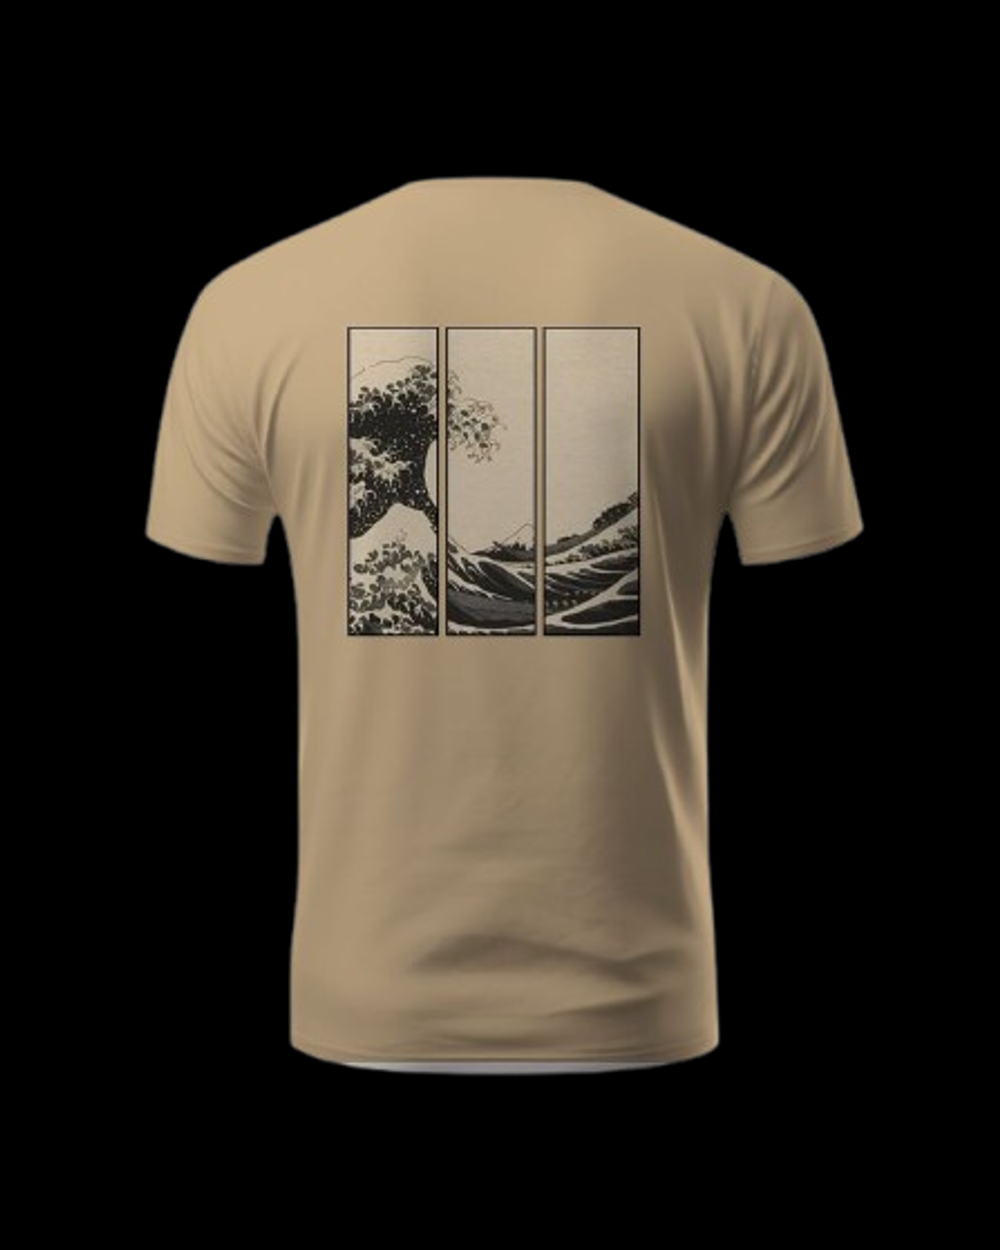
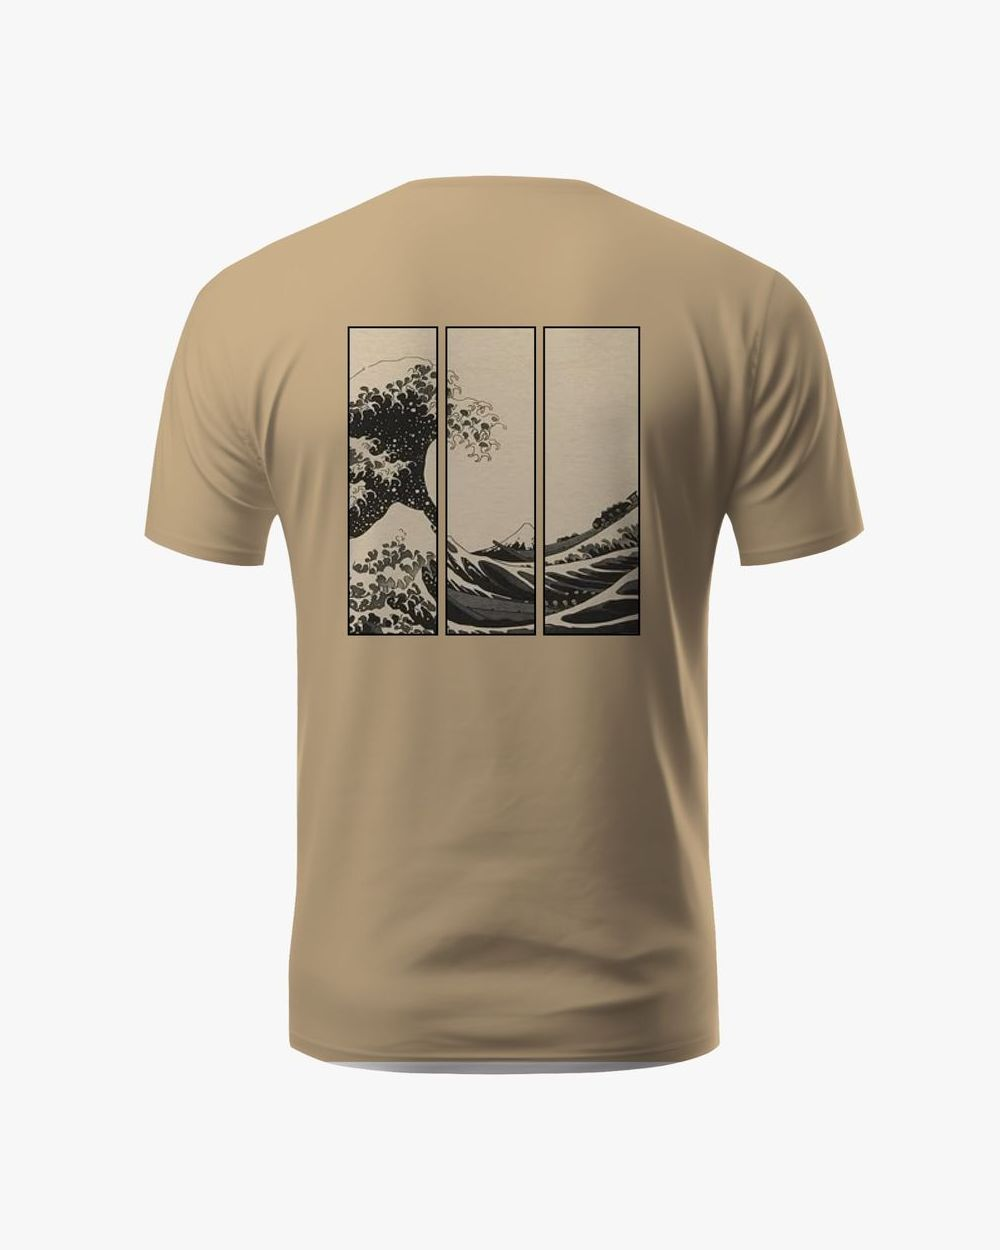
PNG + view in front

diff --git a/src/assets/products.ts b/src/assets/products.ts
@@ -1,10 +1,10 @@
 import featuredImage from "@/assets/featured-collection.png";
-import beigeboyfront from "@/assets/mens-collection-framed/beigeboyfront.jpg";
-import beigeboyback from "@/assets/mens-collection-framed/beigeboyback.jpg";
-import charcoalboyfront from "@/assets/mens-collection-framed/charcoalboyfront.jpg";
-import charcoalboyback from "@/assets/mens-collection-framed/charcoalboyback.jpg";
-import whitegirlfront from "@/assets/womens-collection-framed/whitegirlfront.jpg";
-import whitegirlback from "@/assets/womens-collection-framed/whitegirlback.jpg";
+import beigeboyfront from "@/assets/mens-collection-framed/beigeboyfront.png";
+import beigeboyback from "@/assets/mens-collection-framed/beigeboyback.png";
+import charcoalboyfront from "@/assets/mens-collection-framed/charcoalboyfront.png";
+import charcoalboyback from "@/assets/mens-collection-framed/charcoalboyback.png";
+import whitegirlfront from "@/assets/womens-collection-framed/whitegirlfront.png";
+import whitegirlback from "@/assets/womens-collection-framed/whitegirlback.png";
 
 // Add a type for products that includes optional imageBack
 export interface Product {

diff --git a/src/components/ProductCard.tsx b/src/components/ProductCard.tsx
@@ -54,15 +54,13 @@ const ProductCard = ({
         <img
           src={image}
           alt={name}
-          className={`w-full h-full ${
-            isZoomedOutShirt ? "object-contain" : "object-cover"
-          } transition-transform duration-700 group-hover:scale-110`}
+          className="w-full h-full object-cover transition-transform duration-700 group-hover:scale-110"
         />
         {imageBack && (
           <img
             src={imageBack}
             alt={`${name} back view`}
-            className="w-full h-full object-cover absolute inset-0 z-10 opacity-100 group-hover:opacity-0 transition-opacity duration-500"
+            className="w-full h-full object-cover absolute inset-0 z-10 opacity-0 group-hover:opacity-100 transition-opacity duration-500"
           />
         )}
       </div>
